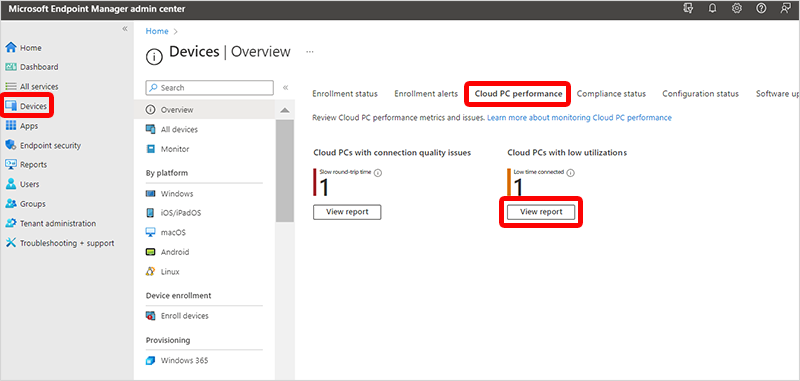
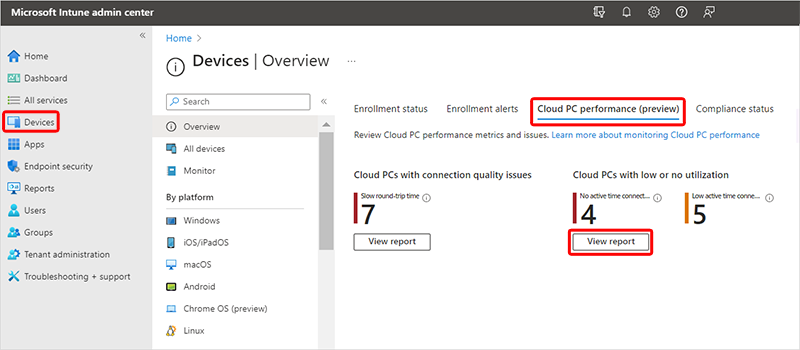
43931329 - util report filters

diff --git a/Windows365/enterprise/report-cloud-pc-utilization.md b/Windows365/enterprise/report-cloud-pc-utilization.md
@@ -7,7 +7,7 @@ keywords:
 author: ErikjeMS  
 ms.author: erikje
 manager: dougeby
-ms.date: 10/12/2022
+ms.date: 03/28/2023
 ms.topic: overview
 ms.service: windows-365
 ms.subservice:
@@ -43,16 +43,17 @@ To get to the **Cloud PC utilization** report, sign in to [Microsoft Intune admi
 The report shows the following data aggregated for the last 28 days:
 
 - This histogram shows user connection time in three sections:
-  - **High time connected**: More than 80 hours.
-  - **Average time connected**: 40-80 hours.
-  - **Low time connected**: Less than 40 hours.
+  - **High active time connected**: More than 80 hours.
+  - **Average active time connected**: 40-80 hours.
+  - **Low active time connected**: Less than 40 hours.
+  - **No active time connected**: Zero hours.
 - List of individual Cloud PCs with the following columns:
   - **Device name**
   - **Primary user UPN**
-  - **Total time connected**: The total hours that the user has been connected to the Cloud PC over the last 28 days.
-  - **Days since last sign in**
+  - **Active time connected**: The total hours that the user has been connected to the Cloud PC over the last 28 days.
+  - **Last active time**: Last time the user was active on the Cloud PC.
 
-You can use the filter to see only data for a specific usage group.
+You can use the filter options to see results for specific **Active time connected** and **Last active time** values. These options can help you understand usage patterns and identify Cloud PCs that are under-utilized (for example, those that are listed when using the filter **Last active time: No sign in for 28 days or more**.)
 
 ## Other reports
 
